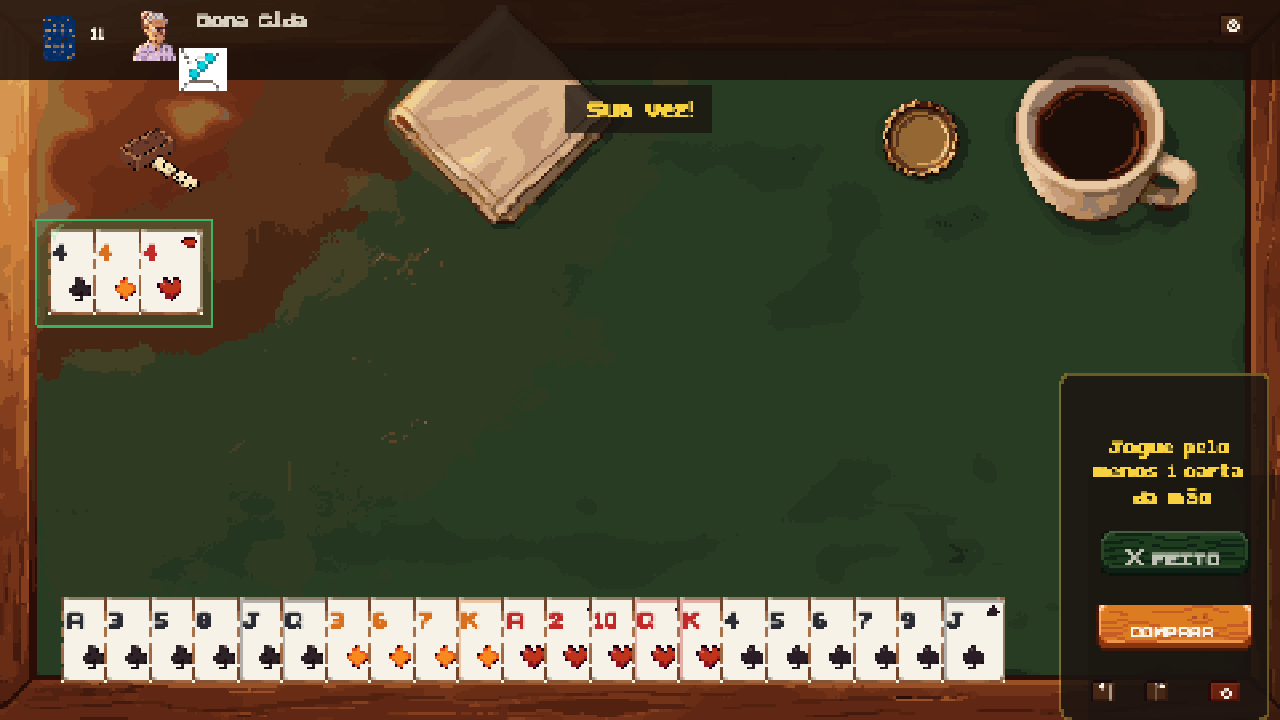
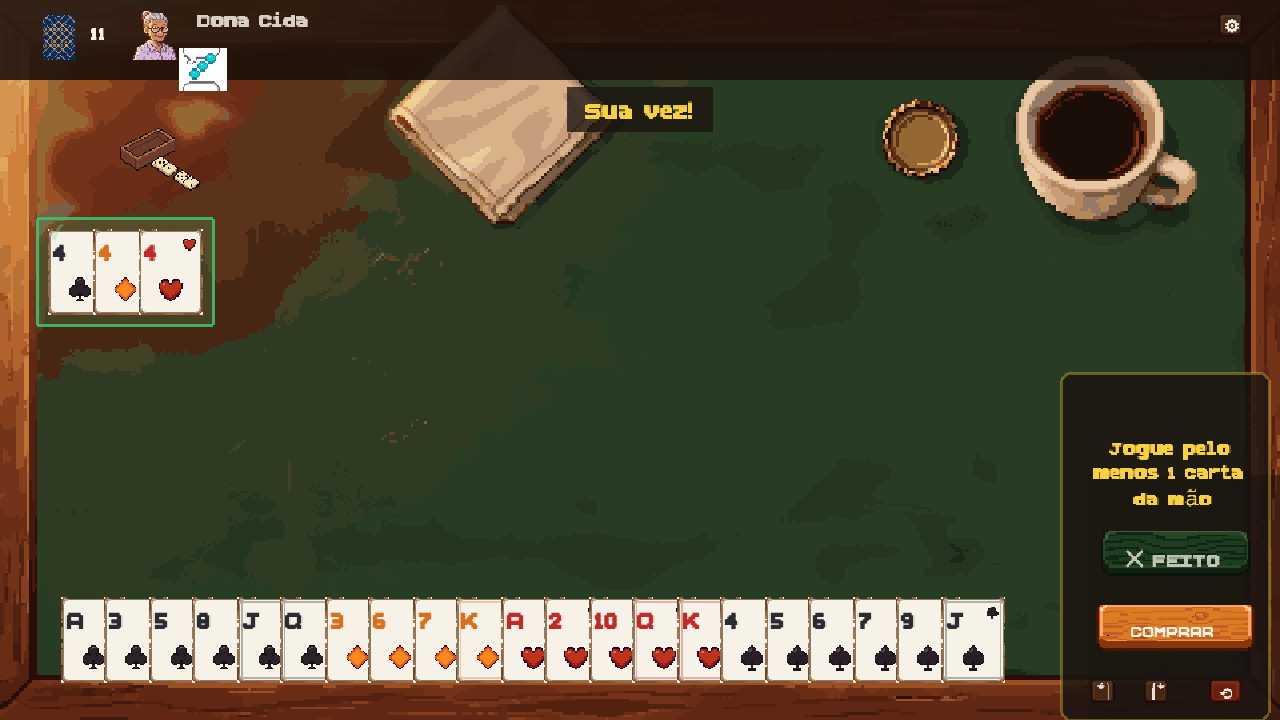
fix: render at 2x so pixel art hits native texture resolution
The canvas backing store was the world size (480x270), so every sprite was
drawn well below the resolution of its own texture — cards are 48x64 files
shown at 24x32 units, avatars 48x48 at 24x24, suit pips 32x32 at 8x8 — and
the whole 480x270 frame was then CSS-upscaled to the window. The art was
downsampled and re-upscaled, which is what made it look mushy.

Render the canvas at 2x the world size and zoom every camera to match, so
sprites sample their textures ~1:1. Scene code is untouched: cameras are
re-centred on the world, so all coordinates stay in 480x270 units.

Claude-Session: https://claude.ai/code/session_018kmxzebQEbfQQaFmCD8wdu

diff --git a/src/main.ts b/src/main.ts
@@ -10,11 +10,19 @@ import { debugApi, installDebugApi } from './verification/debug-api';
 
 installDebugApi();
 
+// The world is authored in 480x270 units, but the canvas renders at RENDER_SCALE times that so
+// sprites hit their native texture resolution instead of being crushed (cards are 48x64 files
+// drawn at 24x32 units). Every camera is zoomed by the same factor and re-centred on the world,
+// so scene code keeps using plain 480x270 coordinates.
+const WORLD_W = 480;
+const WORLD_H = 270;
+const RENDER_SCALE = 2;
+
 const game = new Phaser.Game({
   type: Phaser.AUTO,
   parent: 'game',
-  width: 480,
-  height: 270,
+  width: WORLD_W * RENDER_SCALE,
+  height: WORLD_H * RENDER_SCALE,
   pixelArt: true,
   roundPixels: true,
   backgroundColor: '#1a0f0a',
@@ -23,6 +31,14 @@ const game = new Phaser.Game({
     autoCenter: Phaser.Scale.CENTER_BOTH,
   },
   scene: [BootScene, MenuScene, SetupScene, GameScene, WinScene, TutorialScene],
+});
+
+game.events.once(Phaser.Core.Events.READY, () => {
+  for (const scene of game.scene.scenes) {
+    scene.events.on(Phaser.Scenes.Events.CREATE, () => {
+      scene.cameras.main.setZoom(RENDER_SCALE).centerOn(WORLD_W / 2, WORLD_H / 2);
+    });
+  }
 });
 
 // Scene-agnostic fps sample for the debug API — every scene, not just GameScene.
